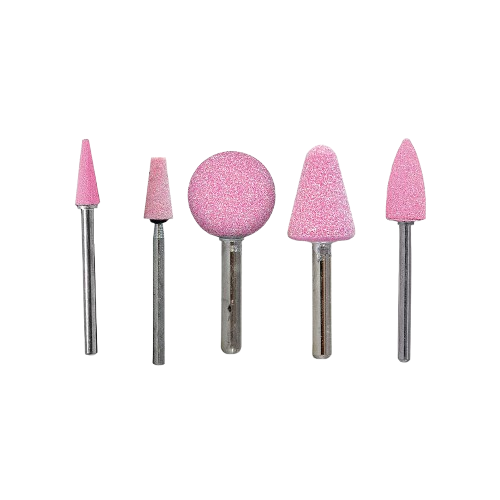
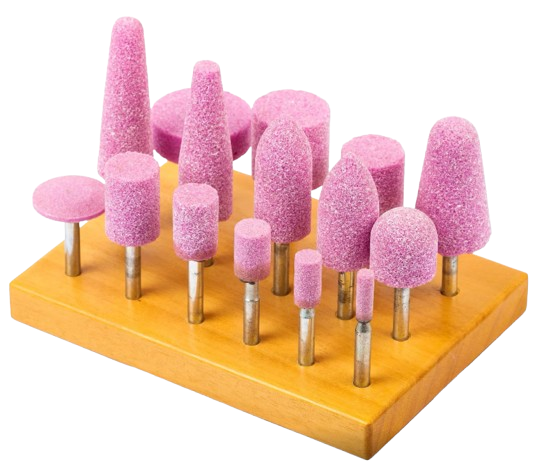
Actualización - 19/05/2026

diff --git a/src/components/products/Tubos.tsx b/src/components/products/Tubos.tsx
@@ -1,7 +1,12 @@
 import React, { useState } from 'react';
-import tuboRedondoImg from '../../assets/tuboredondo.jpg'; // Importa la imagen local
-import tuboCuadradoImg from '../../assets/tubocuadrado.jpg'; // Importa la imagen local
-import tuboRectangularImg from '../../assets/tuborectangular.jpg'; // Importa la imagen local
+import tuboRedondoImg from '../../assets/tuboredondo.jpg';
+import tuboCuadradoImg from '../../assets/tubocuadrado.jpg';
+import tuboRectangularImg from '../../assets/tuborectangular.jpg';
+import tuboindustrialImg from '../../assets/tuboindustrial.png';
+import TuberíaIndustrialImg from '../../assets/tuberias/Tuberia_Industrial.png';
+import TuboRedondoAltImg from '../../assets/tuberias/Tubo_Redondo.png';
+import TuboCuadradoAltImg from '../../assets/tuberias/Tubo_Cuadrado.png';
+import TuboRectangularAltImg from '../../assets/tuberias/Tubo_Rectangular.png';
 
 const dataTubos = [
   { diametroNominalMM: 3.175, diametroNominalPulg: '1/8"', diametroExteriorMM: 10.287, diametroExteriorPulg: 0.405, cedula: 10, espesorMM: 1.245, espesorPulg: 0.049, pesoLbPie: 0.190, pesoKgM: 0.283 },
@@ -144,20 +149,189 @@ const TubosTable = () => {
         />
       </div>
 
+      {/* Tubo Cuadrado Ornamental */}
+      {(query.trim()==='' || matches('Tubo Cuadrado Ornamental')) && (
+      <div className="mb-12">
+        <div className="mb-4">
+          <h3 className="text-3xl font-bold text-blue-600 mb-2">Tubo Cuadrado Ornamental</h3>
+          <p className="text-xl text-gray-600">Norma: ASTM A-554</p>
+          <div className="flex items-center gap-2 text-green-600 mb-4">
+            <span className="text-2xl">✔️</span>
+            <span className="text-xl">Medidas en stock</span>
+          </div>
+        </div>
+
+        {/* Imágenes */}
+        <div className="flex justify-center items-center gap-8 mb-8">
+          <img 
+            src={tuboCuadradoImg} 
+            alt="Tubo Cuadrado" 
+            className="w-48 h-auto"
+          />
+          <img 
+            src={TuboCuadradoAltImg} 
+            alt="Tubo Cuadrado Alt" 
+            className="w-48 h-auto"
+          />
+        </div>
+
+        <table className="min-w-full border-collapse border border-red-500 text-xs text-center">
+          <thead className="bg-red-600 text-white">
+            <tr>
+              <th className="border border-red-500 px-1 py-1">ACABADO</th>
+              <th className="border border-red-500 px-1 py-1">ESPESOR</th>
+              {dataTuboCuadrado.medidas.map((medida, index) => (
+                <th key={index} className="border border-red-500 px-1 py-1">{typeof medida === 'string' ? medida.toUpperCase() : medida}</th>
+              ))}
+            </tr>
+          </thead>
+          <tbody>
+            {dataTuboCuadrado.data.map((row, index) => (
+              <tr key={index} className={`border border-red-500 ${index % 2 === 0 ? 'bg-gray-100' : 'bg-white'}`}>
+                <td className="px-1 py-1">{row.acabado}</td>
+                <td className="px-1 py-1">{row.espesor}</td>
+                {row.medidas.map((isAvailable, medidaIndex) => (
+                  <td key={medidaIndex} className="px-1 py-1">
+                    {isAvailable ? "✔️" : "❌"}
+                  </td>
+                ))}
+              </tr>
+            ))}
+          </tbody>
+        </table>
+      </div>
+      )}
+
+      {/* Tubo Rectangular Ornamental */}
+      {(query.trim()==='' || matches('Tubo Rectangular Ornamental')) && (
+      <div className="mb-12">
+        <div className="mb-4">
+          <h3 className="text-3xl font-bold text-blue-600 mb-2">Tubo Rectangular Ornamental</h3>
+          <p className="text-xl text-gray-600">Norma: ASTM A-554</p>
+          <div className="flex items-center gap-2 text-green-600 mb-4">
+            <span className="text-2xl">✔️</span>
+            <span className="text-xl">Medidas en stock</span>
+          </div>
+        </div>
+
+        {/* Imágenes */}
+        <div className="flex justify-center items-center gap-8 mb-8">
+          <img 
+            src={tuboRectangularImg} 
+            alt="Tubo Rectangular" 
+            className="w-48 h-auto"
+          />
+          <img 
+            src={TuboRectangularAltImg} 
+            alt="Tubo Rectangular Alt" 
+            className="w-48 h-auto"
+          />
+        </div>
+
+        <table className="min-w-full border-collapse border border-yellow-500 text-sm text-center">
+          <thead className="bg-yellow-600 text-white">
+            <tr>
+              <th className="border border-yellow-500 px-1 py-1">ACABADO</th>
+              <th className="border border-yellow-500 px-1 py-1">ESPESOR</th>
+              {dataTuboRectangular.medidas.map((medida, index) => (
+                <th key={index} className="border border-yellow-500 px-1 py-1">{typeof medida === 'string' ? medida.toUpperCase() : medida}</th>
+              ))}
+            </tr>
+          </thead>
+          <tbody>
+            {dataTuboRectangular.data.map((row, index) => (
+              <tr key={index} className={`border border-yellow-500 ${index % 2 === 0 ? 'bg-gray-100' : 'bg-white'}`}>
+                <td className="px-1 py-1">{row.acabado}</td>
+                <td className="px-1 py-1">{row.espesor}</td>
+                {row.medidas.map((isAvailable, medidaIndex) => (
+                  <td key={medidaIndex} className="px-1 py-1">
+                    {isAvailable ? "✔️" : "❌"}
+                  </td>
+                ))}
+              </tr>
+            ))}
+          </tbody>
+        </table>
+      </div>
+      )}
+
+      {/* Tubo Redondo Ornamental */}
+      {(query.trim()==='' || matches('Tubo Redondo Ornamental')) && (
+      <div className="mb-12">
+        <div className="mb-4">
+          <h3 className="text-3xl font-bold text-blue-600 mb-2">Tubo Redondo Ornamental</h3>
+          <p className="text-xl text-gray-600">Norma: ASTM A-554</p>
+          <div className="flex items-center gap-2 text-green-600 mb-4">
+            <span className="text-2xl">✔️</span>
+            <span className="text-xl">Medidas en stock</span>
+          </div>
+        </div>
+
+        {/* Imágenes */}
+        <div className="flex justify-center items-center gap-8 mb-8">
+          <img 
+            src={tuboRedondoImg} 
+            alt="Tubo Redondo" 
+            className="w-48 h-auto"
+          />
+          <img 
+            src={TuboRedondoAltImg} 
+            alt="Tubo Redondo Alt" 
+            className="w-48 h-auto"
+          />
+        </div>
+
+        <table className="min-w-full border-collapse border border-green-500 text-xs text-center">
+          <thead className="bg-green-600 text-white">
+            <tr>
+              <th className="border border-green-500 px-1 py-1">ACABADO</th>
+              <th className="border border-green-500 px-1 py-1">ESPESOR</th>
+              {medidasTubos.map((medida, index) => (
+                <th key={index} className="border border-green-500 px-1 py-1">{`${typeof medida.pulg === 'string' ? medida.pulg.toUpperCase() : medida.pulg} | ${typeof medida.mm === 'string' ? medida.mm : medida.mm} MM`}</th>
+              ))}
+            </tr>
+          </thead>
+          <tbody>
+            {dataTubosred.map((row, rowIndex) => (
+              <tr key={rowIndex} className={`border border-green-500 ${rowIndex % 2 === 0 ? 'bg-gray-100' : 'bg-white'}`}>
+                <td className="px-1 py-1">{row.acabado}</td>
+                <td className="px-1 py-1">{row.espesor}</td>
+                {row.medidas.map((medida, medidaIndex) => (
+                  <td key={medidaIndex} className="border border-green-500 px-1 py-1">
+                    {medida ? '✔️' : '❌'}
+                  </td>
+                ))}
+              </tr>
+            ))}
+          </tbody>
+        </table>
+      </div>
+      )}
+
       {/* Tubería Industrial con Costura */}
 {(query.trim()==='' || matches('Tubería Industrial con Costura')) && (
 <div className="mb-12">
-  <div className="flex justify-between items-center mb-4">
-    <div>
-      <h3 className="text-3xl font-bold text-blue-600">Tubería Industrial con Costura</h3>
-      <p className="text-xl text-gray-600">Norma: ASTM A-312</p>
-      <div className="flex items-center gap-2 text-green-600">
-        <span className="text-2xl">✔️</span>
-        <span className="text-xl">Medidas en stock</span>
-      </div>
+  <div className="mb-4">
+    <h3 className="text-3xl font-bold text-blue-600 mb-2">Tubería Industrial con Costura</h3>
+    <p className="text-xl text-gray-600">Norma: ASTM A-312</p>
+    <div className="flex items-center gap-2 text-green-600 mb-4">
+      <span className="text-2xl">✔️</span>
+      <span className="text-xl">Medidas en stock</span>
     </div>
-    {/* Si quieres agregar una imagen posteriormente, puedes dejar este espacio */}
-    {/* <img src="/tuberia-industrial.jpg" alt="Tubería Industrial" className="w-60 h-auto"/> */}
+  </div>
+
+  {/* Imágenes */}
+  <div className="flex justify-center items-center gap-8 mb-8">
+    <img
+      src={tuboindustrialImg}
+      alt="Tubería Industrial"
+      className="w-48 h-auto"
+    />
+    <img
+      src={TuberíaIndustrialImg}
+      alt="Tubería Industrial Alt"
+      className="w-48 h-auto"
+    />
   </div>
 
   {/* Tabla principal */}
@@ -192,148 +366,7 @@ const TubosTable = () => {
     </tbody>
   </table>
 </div>
-      )}
-
-      {/* Tubo Redondo Ornamental */}
-      {(query.trim()==='' || matches('Tubo Redondo Ornamental')) && (
-      <div className="mb-8">
-        <div className="flex justify-between items-start gap-6 mb-2">
-          <div>
-            <h3 className="text-4xl font-bold text-blue-600">Tubo Redondo Ornamental</h3>
-            <p className="text-xl text-gray-600">Norma: ASTM A-554</p>
-            <div className="flex items-center gap-2 text-green-600">
-              <span className="text-2xl">✔️</span>
-              <span className="text-xl">Medidas en stock</span>
-            </div>
-          </div>
-          <div className="w-48 h-48 flex-shrink-0 flex items-center justify-center">
-            <img 
-              src={tuboRedondoImg} 
-              alt="Tubo Redondo" 
-              className="w-full h-auto object-contain"
-            />
-          </div>
-        </div>
-        <table className="min-w-full border-collapse border border-green-500 text-xs text-center">
-          <thead className="bg-green-600 text-white">
-            <tr>
-              <th className="border border-green-500 px-1 py-1">ACABADO</th>
-              <th className="border border-green-500 px-1 py-1">ESPESOR</th>
-              {medidasTubos.map((medida, index) => (
-                <th key={index} className="border border-green-500 px-1 py-1">{`${typeof medida.pulg === 'string' ? medida.pulg.toUpperCase() : medida.pulg} | ${typeof medida.mm === 'string' ? medida.mm : medida.mm} MM`}</th>
-              ))}
-            </tr>
-          </thead>
-          <tbody>
-            {dataTubosred.map((row, rowIndex) => (
-              <tr key={rowIndex} className={`border border-green-500 ${rowIndex % 2 === 0 ? 'bg-gray-100' : 'bg-white'}`}>
-                <td className="px-1 py-1">{row.acabado}</td>
-                <td className="px-1 py-1">{row.espesor}</td>
-                {row.medidas.map((medida, medidaIndex) => (
-                  <td key={medidaIndex} className="border border-green-500 px-1 py-1">
-                    {medida ? '✔️' : '❌'}
-                  </td>
-                ))}
-              </tr>
-            ))}
-          </tbody>
-        </table>
-      </div>
-      )}
-
-      {/* Tubo Cuadrado Ornamental */}
-      {(query.trim()==='' || matches('Tubo Cuadrado Ornamental')) && (
-      <div className="mb-8">
-        <div className="flex justify-between items-start gap-6 mb-2">
-          <div>
-            <h3 className="text-4xl font-bold text-blue-600">Tubo Cuadrado Ornamental</h3>
-            <p className="text-xl text-gray-600">Norma: ASTM A-554</p>
-            <div className="flex items-center gap-2 text-green-600">
-              <span className="text-2xl">✔️</span>
-              <span className="text-xl">Medidas en stock</span>
-            </div>
-          </div>
-          <div className="w-48 h-48 flex-shrink-0 flex items-center justify-center">
-            <img 
-              src={tuboCuadradoImg} 
-              alt="Tubo Cuadrado" 
-              className="w-full h-auto object-contain"
-            />
-          </div>
-        </div>
-        <table className="min-w-full border-collapse border border-red-500 text-xs text-center">
-          <thead className="bg-red-600 text-white">
-            <tr>
-              <th className="border border-red-500 px-1 py-1">ACABADO</th>
-              <th className="border border-red-500 px-1 py-1">ESPESOR</th>
-              {dataTuboCuadrado.medidas.map((medida, index) => (
-                <th key={index} className="border border-red-500 px-1 py-1">{typeof medida === 'string' ? medida.toUpperCase() : medida}</th>
-              ))}
-            </tr>
-          </thead>
-          <tbody>
-            {dataTuboCuadrado.data.map((row, index) => (
-              <tr key={index} className={`border border-red-500 ${index % 2 === 0 ? 'bg-gray-100' : 'bg-white'}`}>
-                <td className="px-1 py-1">{row.acabado}</td>
-                <td className="px-1 py-1">{row.espesor}</td>
-                {row.medidas.map((isAvailable, medidaIndex) => (
-                  <td key={medidaIndex} className="px-1 py-1">
-                    {isAvailable ? "✔️" : "❌"}
-                  </td>
-                ))}
-              </tr>
-            ))}
-          </tbody>
-        </table>
-      </div>
-      )}
-
-      {/* Tubo Rectangular Ornamental */}
-      {(query.trim()==='' || matches('Tubo Rectangular Ornamental')) && (
-      <div className="mb-8">
-        <div className="flex justify-between items-start gap-6 mb-2">
-          <div>
-            <h3 className="text-4xl font-bold text-blue-600">Tubo Rectangular Ornamental</h3>
-            <p className="text-xl text-gray-600">Norma: ASTM A-554</p>
-            <div className="flex items-center gap-2 text-green-600">
-              <span className="text-2xl">✔️</span>
-              <span className="text-xl">Medidas en stock</span>
-            </div>
-          </div>
-          <div className="w-48 h-48 flex-shrink-0 flex items-center justify-center">
-            <img 
-              src={tuboRectangularImg} 
-              alt="Tubo Rectangular" 
-              className="w-full h-auto object-contain"
-            />
-          </div>
-        </div>
-        <table className="min-w-full border-collapse border border-yellow-500 text-sm text-center">
-          <thead className="bg-yellow-600 text-white">
-            <tr>
-              <th className="border border-yellow-500 px-1 py-1">ACABADO</th>
-              <th className="border border-yellow-500 px-1 py-1">ESPESOR</th>
-              {dataTuboRectangular.medidas.map((medida, index) => (
-                <th key={index} className="border border-yellow-500 px-1 py-1">{typeof medida === 'string' ? medida.toUpperCase() : medida}</th>
-              ))}
-            </tr>
-          </thead>
-          <tbody>
-            {dataTuboRectangular.data.map((row, index) => (
-              <tr key={index} className={`border border-yellow-500 ${index % 2 === 0 ? 'bg-gray-100' : 'bg-white'}`}>
-                <td className="px-1 py-1">{row.acabado}</td>
-                <td className="px-1 py-1">{row.espesor}</td>
-                {row.medidas.map((isAvailable, medidaIndex) => (
-                  <td key={medidaIndex} className="px-1 py-1">
-                    {isAvailable ? "✔️" : "❌"}
-                  </td>
-                ))}
-              </tr>
-            ))}
-          </tbody>
-        </table>
-      </div>
-      )}
+)}
     </div>
   );
 };

diff --git a/src/components/products/CollectionsPages.tsx b/src/components/products/CollectionsPages.tsx
@@ -1204,11 +1204,11 @@ export const PerforadoRoscaPage: React.FC = () => {
                 <h3 className="text-xl font-bold text-blue-600">{s.title}</h3>
               </div>
 
-              <div className="text-center mb-2 h-28 flex items-center justify-center">
+              <div className="text-center mb-2 h-56 flex items-center justify-center">
                 <img
                   src={getPerforadoImageForTitle(s.title)}
                   alt={s.title}
-                  className="w-24 h-24 object-contain"
+                  className="w-48 h-auto object-contain"
                   onError={(e: any) => { e.currentTarget.style.display = 'none'; }}
                 />
               </div>
@@ -2624,7 +2624,7 @@ export const IndustrialesPage: React.FC = () => {
                   <h3 className="text-xl font-bold text-blue-600">EMPAQUES</h3>
                 </div>
                 <div className="text-center mb-2 h-28 flex items-center justify-center">
-                  <img src={EmpaquesImg} alt="Empaques" className="w-24 h-auto" />
+                  <img src={EmpaquesImg} alt="Empaques" className="w-40 h-auto sm:w-44 md:w-48" />
                 </div>
                 <EmpaquesTable />
               </div>
@@ -5597,7 +5597,7 @@ export const ElectrodoVarillaPage: React.FC = () => {
                     <img
                       src={imgRollo}
                       alt="Varillas"
-                      className="w-40 h-30 sm:w-50 sm:h-40 md:w-60 md:h-48 object-contain"
+                      className="w-28 h-28 sm:w-36 sm:h-36 md:w-36 md:h-36 object-contain"
                     />
                 </div>
                 <VarillasTable />